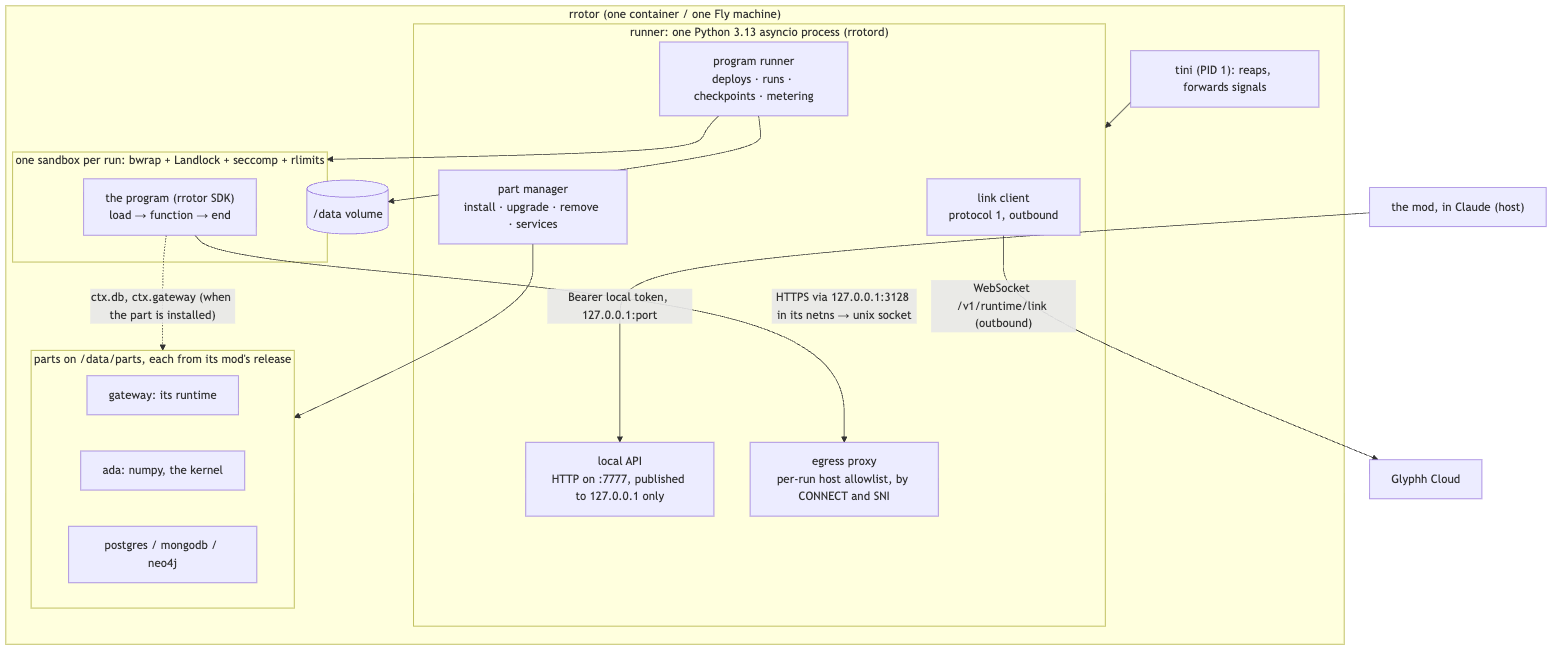
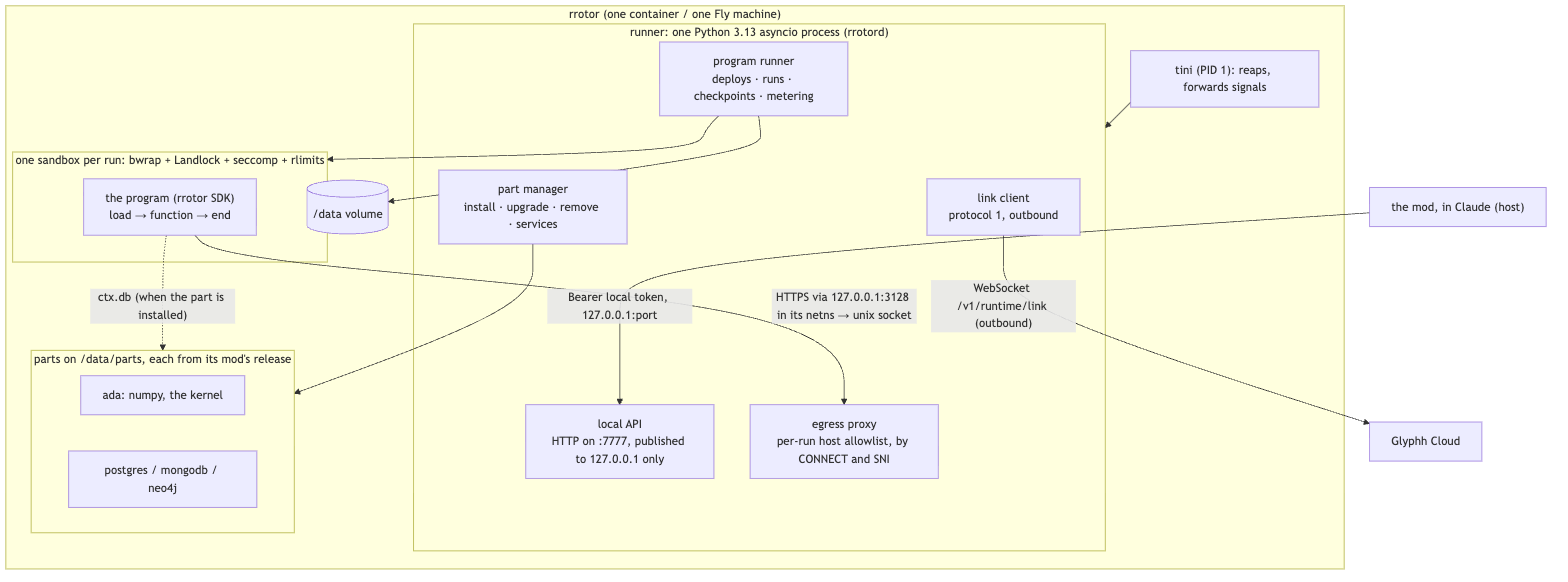
Programs and Gateway go; rrotor is Ada's runtime
The Gateway client leaves the SDK (ctx.gateway) and the docs; the Programs
product leaves the docs, where Ada is now the one mod that installs into
rrotor, and an Ada model is the program rrotor runs. The sample program
stays as what the runtime is built and tested with. Diagrams re-rendered.

diff --git a/src/rrotor/ctx.py b/src/rrotor/ctx.py
@@ -10,7 +10,6 @@ from pathlib import Path
 from typing import Any, NoReturn
 
 from rrotor.errors import NotJson, PartMissing, ProgramError, StepUndeclared, Wait
-from rrotor.gateway import Gateway
 from rrotor.http import Http
 from rrotor.result import Result
 
@@ -119,10 +118,6 @@ class Ctx:
     @property
     def db(self) -> NoReturn:
         raise PartMissing("Databases (ctx.db)", "database")
-
-    @property
-    def gateway(self) -> Gateway:
-        raise PartMissing("Model inference (ctx.gateway)", "Gateway")
 
     @property
     def secrets(self) -> NoReturn:

diff --git a/tests/sdk/test_errors.py b/tests/sdk/test_errors.py
@@ -7,9 +7,9 @@ def test_program_error_keeps_its_message_and_code():
 
 
 def test_part_missing_names_what_and_the_mod():
-    err = PartMissing("The gateway (ctx.gateway)", "Gateway")
-    assert (err.code, err.what, err.mod) == ("E_PART_MISSING", "The gateway (ctx.gateway)", "Gateway")
-    assert "Gateway mod's part" in err.message
+    err = PartMissing("The Ada kernel", "Ada")
+    assert (err.code, err.what, err.mod) == ("E_PART_MISSING", "The Ada kernel", "Ada")
+    assert "Ada mod's part" in err.message
 
 
 def test_step_undeclared_names_the_step():

diff --git a/tests/sdk/test_ctx.py b/tests/sdk/test_ctx.py
@@ -107,7 +107,7 @@ def test_today_defaults_to_utc(tmp_path):
     assert make(tmp_path).today() == dt.datetime.now(dt.UTC).date().isoformat()
 
 
-@pytest.mark.parametrize("name", ["db", "gateway"])
+@pytest.mark.parametrize("name", ["db"])
 def test_parts_not_installed_raise_part_missing(tmp_path, name):
     with pytest.raises(PartMissing):
         getattr(make(tmp_path), name)

diff --git a/docs/architecture.md b/docs/architecture.md
@@ -8,14 +8,13 @@ Each step is marked by its state: **built** (in `glyphh-ai/server` on branch `re
 
 These come first where anything below says otherwise.
 
-1. **The product is mods, sold by subscription.** The server holds accounts, plans with per-mod limits, Stripe and the Glyphh connector; nothing about compute or models. The mods: **Programs**, **Gateway** and **Ada**, which each need rrotor. **rrotor itself is not sold:** it is the shared runtime those three mods install into. See [The mods that use rrotor](#9-the-mods-that-use-rrotor).
-2. **Gateway is a mod, never hosted by Glyphh.** It runs in the person's own rrotor (local, or wherever they host it). Models and keys are added in the mod's UI and stay in rrotor, encrypted. It serves OpenAI- and Anthropic-compatible endpoints to programs and other mods: third-party inference for them. It never routes a Claude subscription and never offers a Claude login ([Anthropic's terms](#anthropics-terms)). Designed, not built ([9.2](#92-gateway)).
-3. **Ada is a mod** that depends on rrotor as Programs does. An Ada model is a program: a repo with `spec.json` and a small program file, deployed by commit, run in the program sandbox with no network, its precedent store in a persistent per-program data folder outside git. Designed, not built ([9.3](#93-ada)).
-4. **A small base image, and a part per mod.** The base: Python, Node, the program sandbox (bubblewrap, Landlock, seccomp, the egress proxy), the link client, the local API and the program runner. Each mod installs its own part into rrotor (Gateway: its runtime; Ada: numpy and the kernel). Postgres with pgvector, MongoDB and Neo4j become parts a mod or a program asks for, not the base. Parts are versioned, come from the mod's own release, are verified, and are licensed by the plan ([Parts](#10-parts)).
-5. **rrotor has no sign-in of its own.** The mod is signed in (device flow, `~/.glyphh/install.json`); it asks the server for the runtime token (`POST /v1/runtime/local`) and hands it to rrotor at start; rrotor sends it on its outbound link; signing out the install cuts rrotor off (built on the server). A hosted rrotor gets its token from the server when it is provisioned (designed).
-6. **How Claude reaches rrotor.** Locally, **through the mods**: a mod registers tools (`$.tool.register`) and draws panels, and calls rrotor's **local API on 127.0.0.1** with a local token only the mod holds. Remotely (routines, other AI clients, a hosted rrotor), **through the Glyphh connector**, then the server, then the runtime link. rrotor serves no MCP to Claude, and no plugin carries an MCP server.
-7. **Local runtimes:** Docker, OrbStack or Apple's `container`, preferring `container` where it is present (a VM per container, the closest to the hosted Firecracker isolation). Hosted on Fly: designed only.
-8. **The mod installs rrotor; no separate install.** It finds a container runtime, pulls `ghcr.io/glyphh-ai/rrotor` at the version matching the mod (pinned by digest, verified), starts it with `/data` on a named volume and hands in the runtime token; updating the mod updates rrotor, and the data stays. PyPI carries only the `rrotor` program SDK. macOS: Apple's `container`, then OrbStack, then Docker; Windows: WSL2, preferably a WSL distribution of the same image (designed); Linux: Docker or Podman (designed) ([11](#11-where-rrotor-runs-and-how-it-is-installed)).
+1. **The product is mods, sold by subscription.** The server holds accounts, plans with per-mod limits, Stripe and the Glyphh connector; nothing about compute or models. The mod that uses rrotor: **Ada**. **rrotor itself is not sold:** it is the runtime Ada installs into, and an Ada model is a program it runs. See [Ada](#9-ada).
+2. **Ada is a mod** that depends on rrotor. An Ada model is a program: a repo with `spec.json` and a small program file, deployed by commit, run in the program sandbox with no network, its precedent store in a persistent per-program data folder outside git. Designed, not built ([9.3](#93-ada)).
+3. **A small base image, and a part per mod.** The base: Python, Node, the program sandbox (bubblewrap, Landlock, seccomp, the egress proxy), the link client, the local API and the program runner. A mod installs its own part into rrotor (Ada: numpy and the kernel). Postgres with pgvector, MongoDB and Neo4j become parts a mod or a program asks for, not the base. Parts are versioned, come from the mod's own release, are verified, and are licensed by the plan ([Parts](#10-parts)).
+4. **rrotor has no sign-in of its own.** The mod is signed in (device flow, `~/.glyphh/install.json`); it asks the server for the runtime token (`POST /v1/runtime/local`) and hands it to rrotor at start; rrotor sends it on its outbound link; signing out the install cuts rrotor off (built on the server). A hosted rrotor gets its token from the server when it is provisioned (designed).
+5. **How Claude reaches rrotor.** Locally, **through the mods**: a mod registers tools (`$.tool.register`) and draws panels, and calls rrotor's **local API on 127.0.0.1** with a local token only the mod holds. Remotely (routines, other AI clients, a hosted rrotor), **through the Glyphh connector**, then the server, then the runtime link. rrotor serves no MCP to Claude, and no plugin carries an MCP server.
+6. **Local runtimes:** Docker, OrbStack or Apple's `container`, preferring `container` where it is present (a VM per container, the closest to the hosted Firecracker isolation). Hosted on Fly: designed only.
+7. **The mod installs rrotor; no separate install.** It finds a container runtime, pulls `ghcr.io/glyphh-ai/rrotor` at the version matching the mod (pinned by digest, verified), starts it with `/data` on a named volume and hands in the runtime token; updating the mod updates rrotor, and the data stays. PyPI carries only the `rrotor` program SDK. macOS: Apple's `container`, then OrbStack, then Docker; Windows: WSL2, preferably a WSL distribution of the same image (designed); Linux: Docker or Podman (designed) ([11](#11-where-rrotor-runs-and-how-it-is-installed)).
 
 ## The parts
 
@@ -23,7 +22,7 @@ These come first where anything below says otherwise.
 |---|---|---|
 | **Person** | The user, in Claude | |
 | **Claude** | Claude Code (desktop Code tab or CLI), and Claude's routines on Anthropic's machines | Their machine; Anthropic |
-| **Mod** | The Glyphh mods (`glyphh-ai/mods`): the three that use rrotor, `programs`, `gateway`, `ada`. Each carries the shared sign-in and licence module | Inside Claude on their machine |
+| **Mod** | The Ada mod (`glyphh-ai/mods`, `ada`), which carries the shared sign-in and licence module | Inside Claude on their machine |
 | **Pane** | Claude's own browser pane | Their machine |
 | **Local rrotor** | The local runtime: the base image plus the parts its mods installed | Their machine (Apple's `container`, OrbStack or Docker) |
 | **Cloud** | The Glyphh server: API, device sign-in pages, Glyphh connector (`/mcp`), the runtime link | Glyphh's cloud |
@@ -84,14 +83,14 @@ sequenceDiagram
 
 ### 1.2 The local rrotor starts and links
 
-The first mod that needs rrotor (Programs today; Gateway and Ada later) starts it once the machine is signed in. rrotor has no sign-in of its own: the mod's sign-in gets the runtime token and hands it in.
+The Ada mod starts rrotor once the machine is signed in. rrotor has no sign-in of its own: the mod's sign-in gets the runtime token and hands it in.
 
 ![Local rrotor](img/seq-local-rrotor.png)
 
 ```mermaid
 sequenceDiagram
     autonumber
-    participant M as Mod (programs)
+    participant M as Mod (ada)
     participant D as container / OrbStack / Docker
     participant R as Local rrotor
     participant G as Cloud
@@ -111,7 +110,7 @@ sequenceDiagram
     M->>R: the mod's tools call the local API on 127.0.0.1:#lt#59;port#gt#59; (Bearer local token)
 ```
 
-**State:** built and checked live on 2026-10-15 (Docker Desktop on macOS 14): the Cloud's side (the runtime token, `/v1/runtime/link`), the rrotor base (this repo), and the Programs mod (`glyphh-ai/mods`, `plugins/programs`) detecting the runtime, making the container, handing in the token; the link online in `rrotors`; signing the install out refuses the link (4401). Apple's `container` and OrbStack are detected and started with the same steps but not yet run here (this Mac has neither).
+**State:** built and checked live on 2026-10-15 (Docker Desktop on macOS 14): the Cloud's side (the runtime token, `/v1/runtime/link`), the rrotor base (this repo), and the mod side (built in the Programs mod before it was dropped on 2026-10-15; the Ada mod carries the same code) detecting the runtime, making the container, handing in the token; the link online in `rrotors`; signing the install out refuses the link (4401). Apple's `container` and OrbStack are detected and started with the same steps but not yet run here (this Mac has neither).
 
 - **Next starts reuse the token** kept in `/data/runtime.json`: the mod asks the server for a new one only when rrotor says it has none or its link was refused (4401), because asking rotates it.
 - **The local token** never touches disk outside the mod's private state: rrotor gets only its SHA-256 (in its environment) and compares a request's token by hash, in constant time. The runtime token goes in over the local API, never in the container's environment (which `docker inspect` shows).
@@ -126,7 +125,7 @@ sequenceDiagram
     autonumber
     actor P as Person
     participant C as Claude
-    participant M as Mod (programs)
+    participant M as Mod (ada)
     participant B as Pane
     participant S as Stripe
     participant G as Cloud
@@ -179,6 +178,8 @@ sequenceDiagram
 
 ## 2. A program, end to end
 
+rrotor runs programs; the product that ships them is Ada, whose models are programs. `daily_sales` is the sample program the runtime is built and tested with.
+
 **The sample:** `daily_sales`. Every morning it reads yesterday's sales from an analytics API (an API key), adds them up, stores the total and hands back rows for a dashboard in Claude.
 
 ```python
@@ -206,7 +207,7 @@ sequenceDiagram
     autonumber
     actor P as Person
     participant C as Claude
-    participant M as Mod (programs)
+    participant M as Mod (ada)
     participant R as Local rrotor
     P->>C: "Build a program that fills my sales dashboard every morning"
     C->>C: writes glyphh.json and program.py in a folder on the person's machine (Claude's own tools), commits it (git)
@@ -226,7 +227,7 @@ sequenceDiagram
     C-->>P: shows the result, fixes, commits and deploys again until it is right
 ```
 
-**State:** built (2026-10-15): deploy by commit from a local folder, calls, `continue`, Results (`programs_list`, `program_deploy`, `program_call`, `program_continue`, `run_status` in the Programs mod), checked live against rrotor. Designed: the live panel, the secrets vault.
+**State:** built (2026-10-15): deploy by commit from a local folder, calls, `continue`, Results (`programs_list`, `program_deploy`, `program_call`, `program_continue`, `run_status`, built in the Programs mod before it was dropped; the Ada mod carries the same), checked live against rrotor. Designed: the live panel, the secrets vault.
 
 ### 2.2 Deploy: to the hosted rrotor, through git, and the routine
 
@@ -238,7 +239,7 @@ Each program is a repo in the person's GitHub account; a version is a commit. Gi
 sequenceDiagram
     autonumber
     participant C as Claude
-    participant M as Mod (programs)
+    participant M as Mod (ada)
     participant GH as GitHub
     participant G as Cloud
     participant H as Hosted rrotor
@@ -267,7 +268,7 @@ sequenceDiagram
 sequenceDiagram
     autonumber
     participant C as Claude
-    participant M as Mod (programs)
+    participant M as Mod (ada)
     participant R as Local rrotor
     participant GH as GitHub
     participant G as Cloud
@@ -366,7 +367,7 @@ A step that needs approval is a row in `approvals` (the record, kept until answe
 sequenceDiagram
     autonumber
     actor P as Person
-    participant M as Mod (programs), in Claude
+    participant M as Mod (ada), in Claude
     participant G as Cloud
     participant Q as Redis
     participant H as rrotor
@@ -414,7 +415,7 @@ sequenceDiagram
 **How the Cloud calls a routine.** Through the routine's **API trigger**, the documented way to start a routine from outside Claude (Anthropic's routines documentation, checked 2026-10-14):
 
 1. **The person adds an API trigger** to the routine at claude.ai/code/routines (Edit → Add another trigger → API) and generates its token. The token is shown once and starts **that routine only**: it is not a Claude login, so the Cloud never holds one.
-2. **The person gives the Cloud the trigger** (its URL and token) in the programs mod, as they would a secret. The Cloud keeps it encrypted (`routine_triggers`, see [Server gaps](#server-gaps)).
+2. **The person gives the Cloud the trigger** (its URL and token) in the Ada mod, as they would a secret. The Cloud keeps it encrypted (`routine_triggers`, see [Server gaps](#server-gaps)).
 3. **The Cloud fires it** when the program's event happens (a run finished, a watched page changed, a waiting step was approved):
 
 ```
@@ -469,7 +470,6 @@ flowchart TB
             Prog["the program (rrotor SDK)<br/>load → function → end"]
         end
         subgraph PartsBox["parts on /data/parts, each from its mod's release"]
-            PGateway["gateway: its runtime"]
             PAda["ada: numpy, the kernel"]
             PDB["postgres / mongodb / neo4j"]
         end
@@ -478,7 +478,7 @@ flowchart TB
         Engine --> Sandbox
         Parts --> PartsBox
         Prog -- "HTTPS via 127.0.0.1:3128 in its netns → unix socket" --> Proxy
-        Prog -. "ctx.db, ctx.gateway (when the part is installed)" .-> PartsBox
+        Prog -. "ctx.db (when the part is installed)" .-> PartsBox
         Engine --> Data
     end
     Mod["the mod, in Claude (host)"]
@@ -594,7 +594,6 @@ ctx.http                # HTTPS to declared hosts only, through the egress proxy
 ctx.files               # its folder, a pathlib.Path
 ctx.log(message, **detail)
 ctx.db                  # the database parts; E_PART_MISSING without them
-ctx.gateway             # the Gateway mod's client (OpenAI- and Anthropic-compatible); E_PART_MISSING until Gateway ships
 ctx.secrets["NAME"]     # declared secrets (the vault, designed)
 ```
 
@@ -674,7 +673,7 @@ The mods reach the local rrotor through its **local API**: HTTP on `127.0.0.1:<p
 | `GET /v1/runs/{id}/log` | The run's log lines |
 | `GET /v1/approvals` | Runs waiting for approval: run, program, step, prompt, when |
 
-**The Programs mod's tools** (built now): `programs_list`, `program_deploy` (a local folder at a commit, bundled by the mod; or a repo and commit), `program_call`, `program_continue`, `run_status`. A status line shows rrotor's state and the approvals waiting. Designed for later: the live panel (MCP App from the Glyphh connector, or a local page), secrets, versions and activate.
+**The mod's tools** (built in the Programs mod before it was dropped; the Ada mod carries the same): `programs_list`, `program_deploy` (a local folder at a commit, bundled by the mod; or a repo and commit), `program_call`, `program_continue`, `run_status`. A status line shows rrotor's state and the approvals waiting. Designed for later: the live panel (MCP App from the Glyphh connector, or a local page), secrets, versions and activate.
 
 **Deploying goes through git:** locally the mod sends a bundle of the commit (the folder is never mounted into rrotor); for hosted runs the person pushes the commit to the program's repo, the Cloud records it (`POST /v1/programs/{id}/versions`) and hands the hosted rrotor the commit and a short-lived token to fetch it.
 
@@ -705,34 +704,9 @@ What the flows needed that the server's design did not have; now in it, so the i
 6. **The connector's Allow page.**
 7. **No bundle storage:** `bundle_ref` is gone.
 
-## 9. The mods that use rrotor
+## 9. Ada
 
-rrotor is not sold. Three mods install into it, each its own product in the plan's licence (`payload.mods.<mod>.limits`):
-
-| Mod | Its part in rrotor | Limits (the licence) | State |
-|---|---|---|---|
-| **Programs** (`programs`) | None: programs run on the base, and ask for the database parts they need | `programs` (deployed programs), `runs_per_day` (placeholders, TBD) | Mod built minimal (start rrotor, deploy, call, continue, status) |
-| **Gateway** (`gateway`) | The gateway's runtime | Designed with the mod | Designed |
-| **Ada** (`ada`) | numpy and the Ada kernel | Designed with the mod | Designed |
-
-The first of them that starts finds rrotor already running (any mod's start reuses it, by the container's name `glyphh-rrotor`) or starts it.
-
-### 9.1 Programs
-
-Everything in sections 2, 5 and 7: programs written with Claude, deployed by commit, run in the sandbox, called by Claude through the mod, and by routines through the Glyphh connector. The mod enforces its limits from the licence: `programs` refuses a deploy of a new program past the count, `runs_per_day` refuses a call past the day's count; a run the Cloud sends is counted by the server (designed).
-
-### 9.2 Gateway
-
-**Third-party inference for programs and mods, inside the person's rrotor; never hosted by Glyphh.** Designed, not built.
-
-- **Where it runs:** its part in rrotor, local or wherever the person hosts rrotor. Glyphh's cloud never sees a prompt, a model's answer or a key.
-- **Models and keys:** added in the Gateway mod's panel (a provider, its base URL, its key, the models allowed), handed to rrotor over the local API, kept in rrotor's vault encrypted with the runtime key (`/data/secrets/gateway.enc`), never in a chat, a log or the mod's files.
-- **What it serves:** OpenAI-compatible (`/v1/chat/completions`, `/v1/responses`, `/v1/embeddings`, `/v1/models`) and Anthropic-compatible (`/v1/messages`) endpoints, on a unix socket inside rrotor. A program reaches it as `ctx.gateway` (the SDK's client) or with any OpenAI or Anthropic library pointed at it: the runner mounts the socket into the sandbox of a program whose manifest says `"gateway": true`, and forwards it to `127.0.0.1:3129` in its namespace. Other mods reach it through the local API (`/v1/gateway/...`, the same local token).
-- **Per program:** which models it may use and a spend cap per day, set in the panel; usage counted per program and shown in the panel.
-- **Never Claude:** it never routes a Claude subscription, never offers a Claude login and never takes a Claude.ai credential or session token ([Anthropic's terms](#anthropics-terms)). An Anthropic API key the person adds is their own API account, like any provider's key.
-- **The SDK today:** `ctx.gateway` is an interface that raises `E_PART_MISSING` ("comes with the Gateway mod") until the part is installed; there is no fake behaviour.
-
-### 9.3 Ada
+rrotor is not sold. One mod installs into it, Ada, its own product in the plan's licence (`payload.mods.ada.limits`): its part is numpy and the Ada kernel; its limits `models` and `precedents` (placeholders, TBD). The mod starts rrotor (or finds it already running, by the container's name `glyphh-rrotor`), deploys models and calls them, as sections 2, 5 and 7 describe for a program.
 
 **Ada is a library, and an Ada model is a program.** Designed, not built.
 
@@ -746,13 +720,13 @@ Everything in sections 2, 5 and 7: programs written with Claude, deployed by com
 
 ## 10. Parts
 
-A **part** is what a mod installs into rrotor beyond the base: Gateway's runtime, Ada's numpy and kernel, and the database parts (Postgres with pgvector, MongoDB, Neo4j) a mod or a program asks for. Designed, not built.
+A **part** is what a mod installs into rrotor beyond the base: Ada's numpy and kernel, and the database parts (Postgres with pgvector, MongoDB, Neo4j) a mod or a program asks for. Designed, not built.
 
 - **What a part is:** a self-contained tree built in the mod's own CI on the same Debian base (its binaries and the shared libraries they need, under its own prefix), and `part.json`: `{mod, name, version, arch, rrotor (the lowest base version it needs), sha256, services, mounts, env}`. `services` are processes the part manager runs on demand (Postgres); `mounts` are what a sandbox of a program that uses the part gets (read-only).
 - **Where it comes from:** the mod's own release (an asset of the mod's release in the marketplace, `rrotor-part-<name>-<version>-<arch>.tar.zst`), signed with Glyphh's release key (Ed25519, a different key from the licence's); the base image carries the public key. rrotor checks the signature and the SHA-256 before it unpacks anything.
 - **Install, upgrade, remove:** the mod asks over the local API (`POST /v1/parts {mod, name, version, url}`, `DELETE /v1/parts/{name}`). rrotor downloads, checks, unpacks to `/data/parts/<name>/<version>/`, and switches `/data/parts/<name>/current` in one rename; the previous version stays until the next upgrade, so a failed start rolls back. Removing a part stops its services and keeps its data (`/data/db/<name>`) unless the mod asks for it to go.
 - **Licensed by the plan:** the mod hands rrotor its signed licence (`PUT /v1/licence`); rrotor checks it with Glyphh's licence key, as the mods do, and installs or starts a part only while the licence includes its mod. A licence that expires or drops the mod stops the part's services and refuses runs that need it (`E_NOT_IN_PLAN`), keeping its data. Per-part limits (a database's size, Ada's precedents) come from the mod's limits in the same licence.
-- **A program asks for a part** in its manifest (`databases`, `gateway`, Ada's kernel); a run whose part is missing fails with `E_PART_MISSING` naming the part and the mod that brings it.
+- **A program asks for a part** in its manifest (`databases`, Ada's kernel); a run whose part is missing fails with `E_PART_MISSING` naming the part and the mod that brings it.
 
 ## 11. Where rrotor runs, and how it is installed
 
@@ -775,9 +749,7 @@ A **part** is what a mod installs into rrotor beyond the base: Gateway's runtime
 
 | Mod | macOS | Windows | Linux | Needs rrotor | Host dependencies today |
 |---|---|---|---|---|---|
-| Programs | Works on Docker or OrbStack; Apple's `container` detected | WSL2 (designed) | Docker or Podman (designed) | Yes | A container runtime; `git` (bundles a commit); `ioreg` |
-| Gateway | Designed | Designed | Designed | Yes | As Programs |
-| Ada | Designed | Designed | Designed | Yes | As Programs |
+| Ada (the runtime side works; the mod is designed) | Works on Docker or OrbStack; Apple's `container` detected | WSL2 (designed) | Docker or Podman (designed) | Yes | A container runtime; `git` (bundles a commit); `ioreg` |
 | The shared sign-in and licence | Works | To build | To build | No | `ioreg` (the machine id), `scutil` (the computer's name), `open` |
 
 **macOS-only today, and the Windows equivalents to build later:**
@@ -798,9 +770,8 @@ Quoted in the server's `docs/architecture.md` (checked 2026-10-14): third-party 
 - **Secrets on the hosted rrotor:** set again there (2.2), or carried from the local one encrypted to the hosted rrotor's key.
 - **The Glyphh GitHub App's permissions:** repository contents (read and write, for the person's program repos) and metadata; the person picks which repos it may reach.
 - **Per-program isolation in Neo4j:** the free edition holds one database.
-- **Programs' limits:** the numbers for `programs` and `runs_per_day` per plan (placeholders in the seed).
 - **Part signing:** the release key's custody and rotation, and where the mods' CI builds parts.
-- **Gateway's and Ada's limits** in the licence.
+- **Ada's limits** in the licence: `models` and `precedents` per plan (placeholders in the seed).
 - **Not yet run here:** rrotor on Apple's `container` (needs macOS 26; this build's Mac is on 14) and on OrbStack; both are detected and started by the same steps, and are to be checked on a Mac that has them. How a `container` VM reaches the host's `localhost` (the dev server) is to be confirmed there.
-- **To build next:** the part manager (install, upgrade, remove, licensed parts), the secrets vault, the live panel, Gateway, Ada, hosted rrotor on Fly, and the WSL distribution's install from the Programs mod on Windows.
-- **Publishing the image:** CI builds and tests both images on every push and exports the WSL root filesystem, but pushing to `ghcr.io/glyphh-ai/rrotor` waits for an org admin to give this repository write access to the package (its settings, Manage Actions access), then the repository variable `PUBLISH_IMAGES=true`. Until then the Programs mod pins no digest, and its `rrotor image` setting names a local build.
+- **To build next:** the part manager (install, upgrade, remove, licensed parts), the secrets vault, the live panel, the Ada mod and part, hosted rrotor on Fly, and the WSL distribution's install from the Ada mod on Windows.
+- **Publishing the image:** CI builds and tests the image on every push and exports the WSL root filesystem, but pushing to `ghcr.io/glyphh-ai/rrotor` waits for an org admin to give this repository write access to the package (its settings, Manage Actions access), then the repository variable `PUBLISH_IMAGES=true`. Until then no mod pins a digest, and a mod's `rrotor image` setting names a local build.

diff --git a/README.md b/README.md
@@ -1,5 +1,5 @@
 # rrotor
 
-The isolated runtime that runs Glyphh programs: deterministic Python jobs (`load`, `start`, custom functions, `end`) that Claude and Claude's routines call. One locked-down, headless Linux image, run locally on every plan and hosted (one per person, on Fly) on Pro and Team.
+The isolated runtime Ada installs into. It runs programs: deterministic Python jobs (`load`, `start`, custom functions, `end`) that Claude and Claude's routines call; an Ada model is one. One locked-down, headless Linux image, run locally on every plan and hosted (one per person, on Fly) on Pro and Team.
 
-The design is in `glyphh-ai/server`, `docs/architecture.md` ("`programs`: programs and rrotor", and "rrotor"); how the parts call each other is in this repo's `docs/architecture.md`.
+The design is in `glyphh-ai/server`, `docs/architecture.md` ("`ada`: models and rrotor", and "rrotor"); how the parts call each other is in this repo's `docs/architecture.md`.
